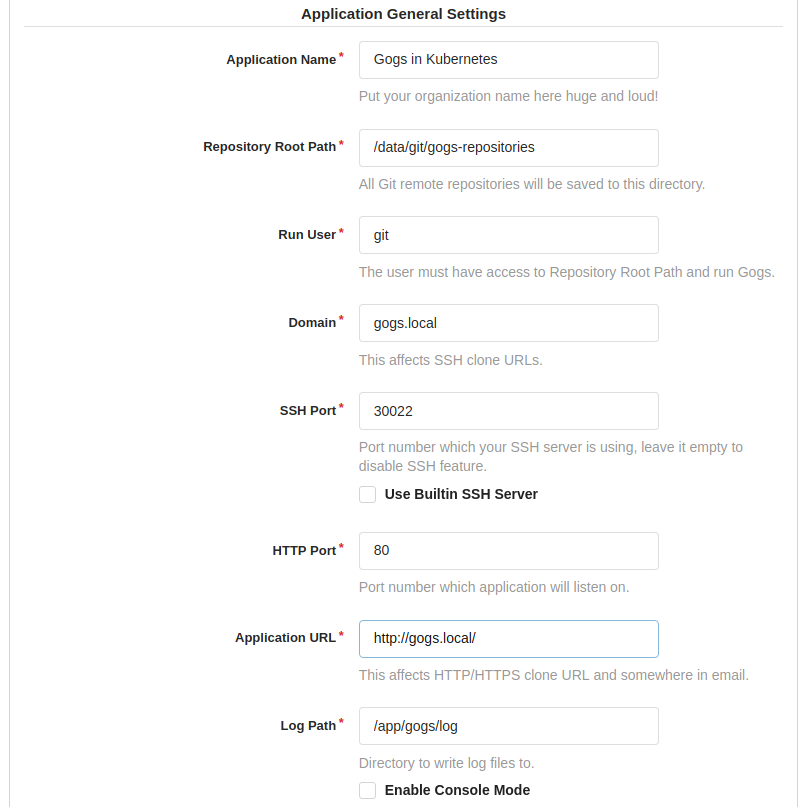
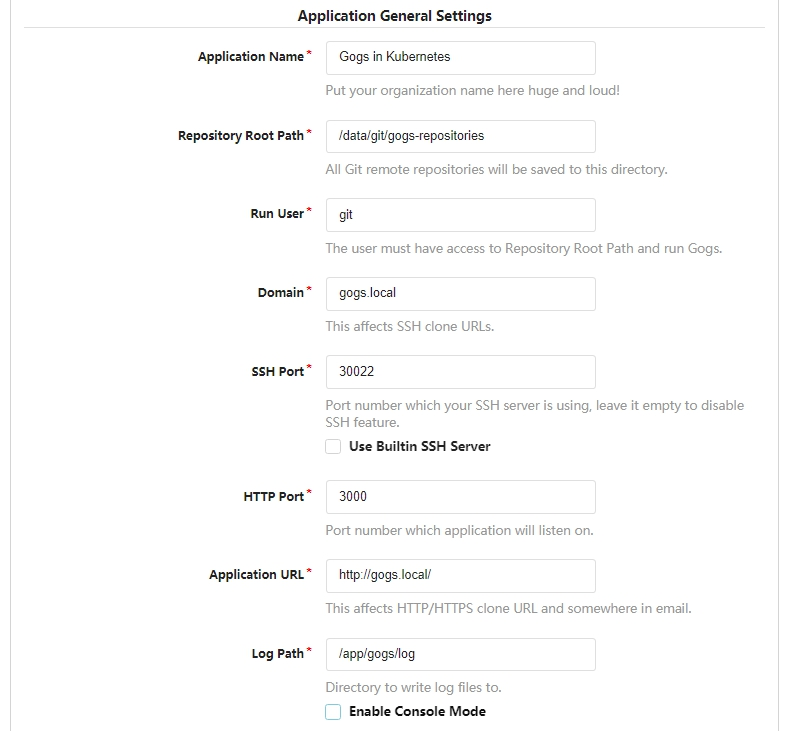
http port 3000

diff --git a/README.md b/README.md
@@ -65,7 +65,7 @@ For simplicity choose `SQLite3`
 
 - Domain: `gogs.local`
 - SSH Port: `30022`
-- HTTP Port: `80`
+- HTTP Port: `3000`
 - Application URL: `http://gogs.local/`
 
 ![Application General Settings](img/app-config.png)
